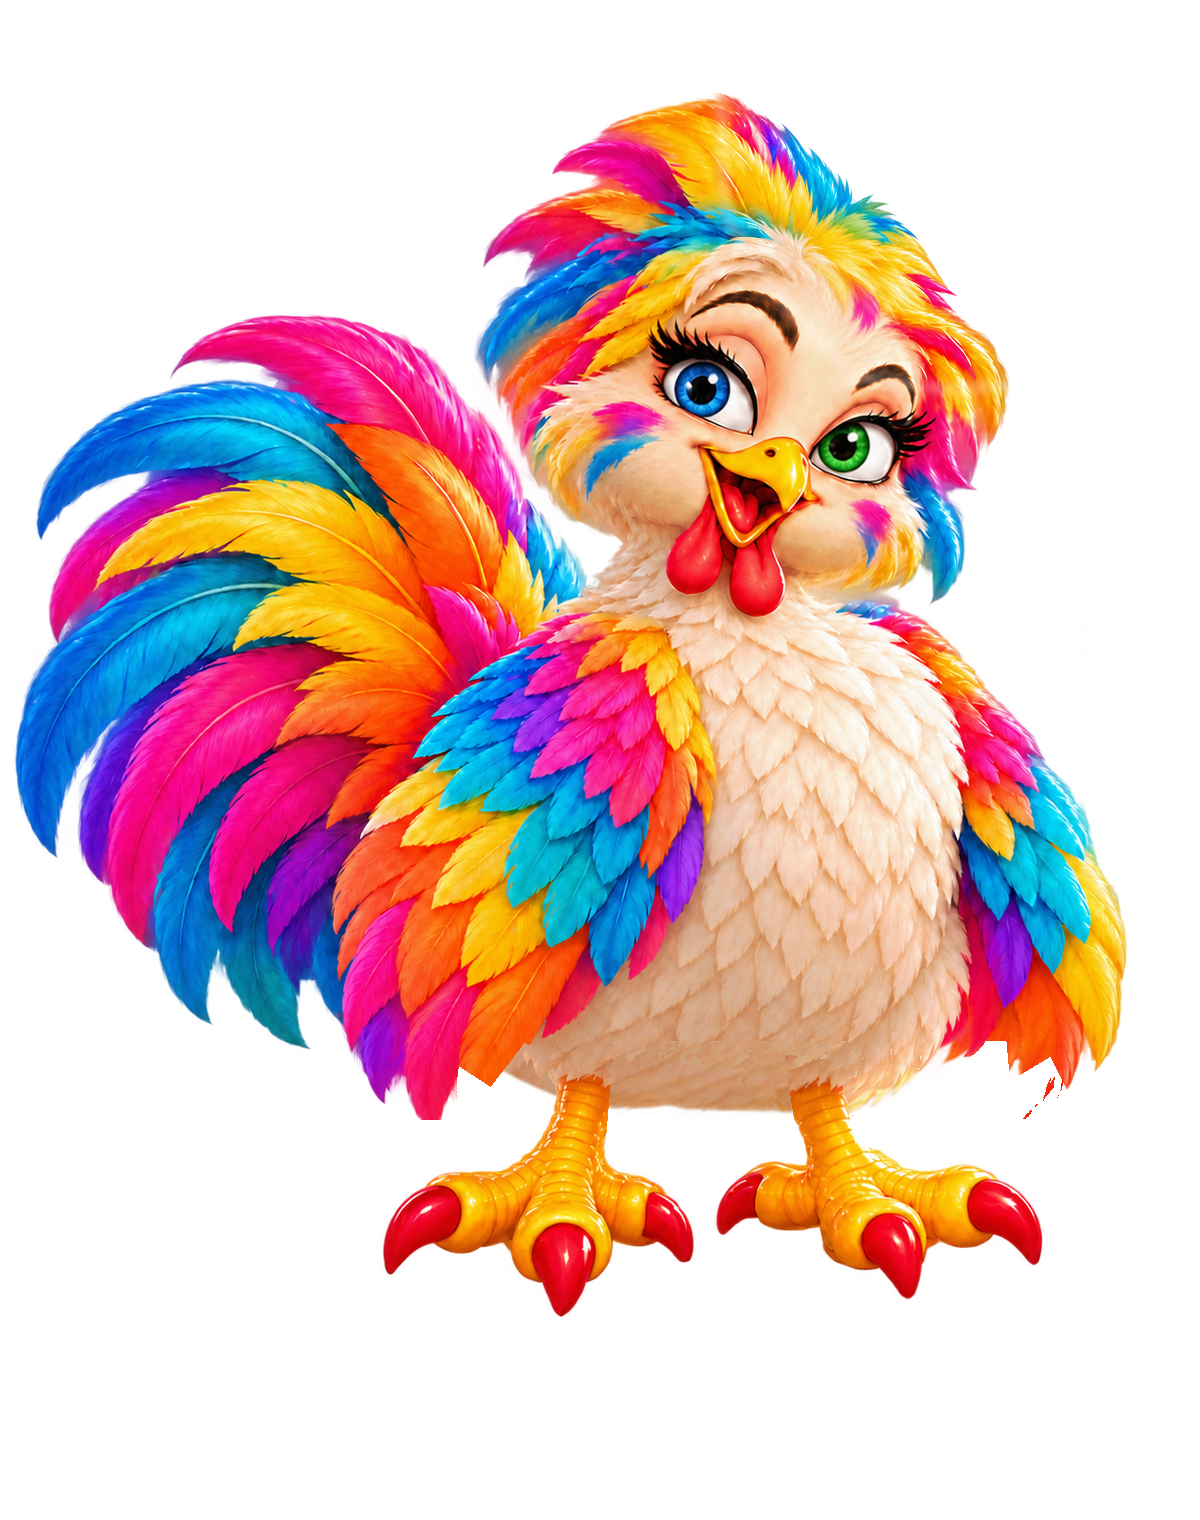
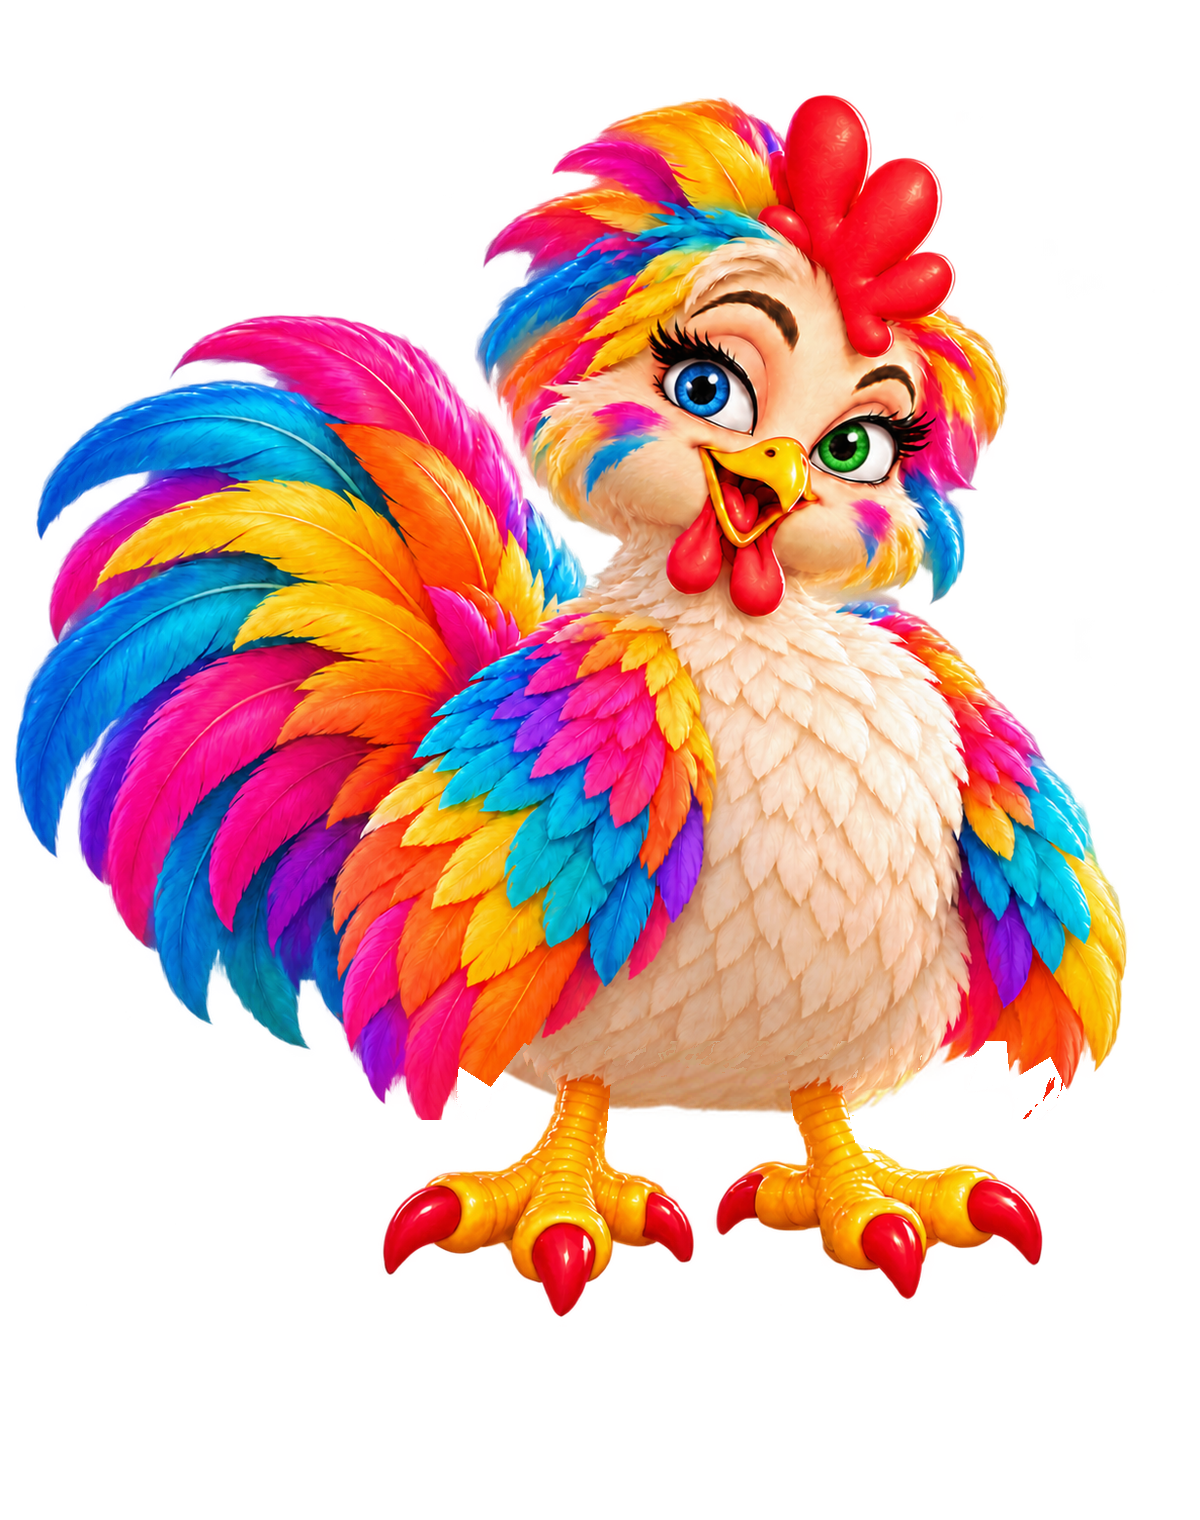
fix: retain bare base heads and combs in undressed recipes

Changed region(s): [[0.5858, 0.0618, 0.8325, 0.2783]]

diff --git a/tools/art/characters-v12-web/export_v12.py b/tools/art/characters-v12-web/export_v12.py
@@ -26,6 +26,8 @@ def slug(s):
 def export(source, emotion_source, repo):
     old=json.loads((source/'manifest.json').read_text())
     root=repo/'assets/characters/v12'
+    manifest_path=repo/'docs/visual/manifests/2026-11-02_characters_v12_web.json'
+    previous={f['png']:f for f in json.loads(manifest_path.read_text())['files']} if manifest_path.exists() else {}
     files=[]; by_source={}; recipes={}; groups={}
     item_for={f:key for key,parts in old['equipment_groups'].items() for f in parts}
     layer_for={l['file']:l for c in old['characters'].values() for l in c['layers']}
@@ -43,17 +45,21 @@ def export(source, emotion_source, repo):
             dirs=[CODES.get(x,x) for x in parts[:-1]]
             webrel='/'.join(dirs+[slug(Path(rel).stem)+'.webp'])
         web=root/'web'/webrel
-        small=im.resize((600,760),Image.Resampling.LANCZOS)
-        b=io.BytesIO(); small.save(b,format='WEBP',lossless=True,quality=100,method=6,exact=True)
-        lossless=True; quality=100
-        if len(b.getvalue())>=300000:
-            lossless=False; quality=95
-            while True:
-                b=io.BytesIO(); small.save(b,format='WEBP',quality=quality,method=6,alpha_quality=100,exact=True)
-                if len(b.getvalue())<300000:break
-                quality-=5
-                assert quality>=75, rel
-        wb=b.getvalue(); atomic(web,wb)
+        cached=previous.get(png.relative_to(repo).as_posix())
+        if cached and cached['sha256']['png']==sha(data) and web.exists() and sha(web.read_bytes())==cached['sha256']['webp']:
+            wb=web.read_bytes();lossless=cached['webp_lossless'];quality=cached['webp_quality']
+        else:
+            small=im.resize((600,760),Image.Resampling.LANCZOS)
+            b=io.BytesIO(); small.save(b,format='WEBP',lossless=True,quality=100,method=6,exact=True)
+            lossless=True; quality=100
+            if len(b.getvalue())>=300000:
+                lossless=False; quality=95
+                while True:
+                    b=io.BytesIO(); small.save(b,format='WEBP',quality=quality,method=6,alpha_quality=100,exact=True)
+                    if len(b.getvalue())<300000:break
+                    quality-=5
+                    assert quality>=75, rel
+            wb=b.getvalue(); atomic(web,wb)
         with Image.open(web)as test:
             test.load(); assert test.size==(600,760) and test.mode=='RGBA'
             assert test.getchannel('A').getextrema()[0]==0
@@ -90,7 +96,9 @@ def export(source, emotion_source, repo):
             entry=by_source[l['file']]
             layers.append({'file_id':entry['id'],'z':l['z'],'item':entry['item'],'type':entry['type'],'role':l['name']})
         anatomy={l.get('source'):by_source[l['file']] for l in c['layers'] if l['source_type']=='anatomy'}
-        base_parts=[by_source[cid+'/base/legs_bare.png']]+[anatomy[cid+'/'+n] for n in ['parts/torso.png','parts/left_wing.png','parts/right_wing.png','head_native_base.png']]
+        bare_head=add('heads/'+code+'/base_bare.png',(emotion_source/cid/'parts/head.png').read_bytes(),cid,'head_base','head_bare_base',z=70,
+                      provenance='existing registered v08 bare base head; comb retained when headwear is off',extra={'headwear_variant':'bare','replaces_role':'head_native_base'})
+        base_parts=[by_source[cid+'/base/legs_bare.png']]+[anatomy[cid+'/'+n] for n in ['parts/torso.png','parts/left_wing.png','parts/right_wing.png']]+[bare_head]
         base_z=[3,10,60,61,70]; body=Image.new('RGBA',SIZE)
         for part in base_parts:body.alpha_composite(Image.open(repo/part['png']).convert('RGBA'))
         body_entry=add('body/full_'+code+'.png',png_bytes(body),cid,'body','undressed_full_body',provenance='composed from unchanged v12 anatomy')
@@ -115,21 +123,21 @@ def export(source, emotion_source, repo):
         name=key.split('/')[1]; code=CODES[key.split('/')[0]]
         groups[key]={'character':code,'slot':SLOTS[name],'file_ids':[by_source[f]['id']for f in parts],
                      'standing_visible':True,'seated_visible':name not in ['bag','water_toy','shopper_flute','satchel','cloth_bag','bag_h','boots','crocs','sandals','ring07','anklets']}
-    assert len(files)==141
+    assert len(files)==147
     assert sum(x['type'].startswith('item_')for x in files)==49
     assert sum(len(x['default_layers'])for x in recipes.values())==77
     assert all(x['webp_bytes']<300000 for x in files)
     manifest={'schema_version':1,'batch':'characters_v12_web','status':'QA','source_status':old['status'],
               'source_library_file_id':'libfile_7567c5743e348191814cc91cd3ca3831','source_library_version':1,
               'figma':old['figma'],'coordinate_system':{'png':[1200,1520],'webp':[600,760],'origin':[0,0],'trim':False,'web_scale':0.5},
-              'counts':{'unchanged_original_png':95,'extra_undressed_bodies':6,'existing_emotion_head_variants':40,
-                        'emotion_expressions':24,'png':141,'webp':141,'equipment_groups':35,'equipment_parts':49,'default_anatomy_parts':28,'default_layers':77},
+              'counts':{'unchanged_original_png':95,'extra_undressed_bodies':6,'existing_bare_base_heads':6,'existing_emotion_head_variants':40,
+                        'emotion_expressions':24,'png':147,'webp':147,'equipment_groups':35,'equipment_parts':49,'default_anatomy_parts':28,'default_layers':77},
               'composition_contract':'Use the interleaved default_layers recipe. A flat undressed body is a preview fallback, not a substitute for torso/head/wings/legs in an equipped assembly. Swapping footwear must follow footwear_policy. Never crop the registration canvas.',
               'characters':recipes,'equipment_groups':groups,'files':files,
               'qa':{'original_95_png_unchanged':True,'png_and_webp_decode':'passed','dimensions_and_transparency':'passed','webp_limit_bytes':300000,'max_webp_bytes':max(x['webp_bytes']for x in files),'browser_assembly':'pending','owner_approval_not_set_by_agent':True}}
     path=repo/'docs/visual/manifests/2026-11-02_characters_v12_web.json'
     atomic(path,(json.dumps(manifest,ensure_ascii=False,indent=2)+'\n').encode())
-    print(json.dumps({'manifest':str(path),'png':141,'webp':141,'max_webp_bytes':manifest['qa']['max_webp_bytes'],'lossy_webp':sum(not x['webp_lossless']for x in files)}))
+    print(json.dumps({'manifest':str(path),'png':len(files),'webp':len(files),'max_webp_bytes':manifest['qa']['max_webp_bytes'],'lossy_webp':sum(not x['webp_lossless']for x in files)}))
 
 if __name__=='__main__':
     p=argparse.ArgumentParser(); p.add_argument('--source',type=Path,required=True);p.add_argument('--emotions',type=Path,required=True);p.add_argument('--repo',type=Path,required=True)
